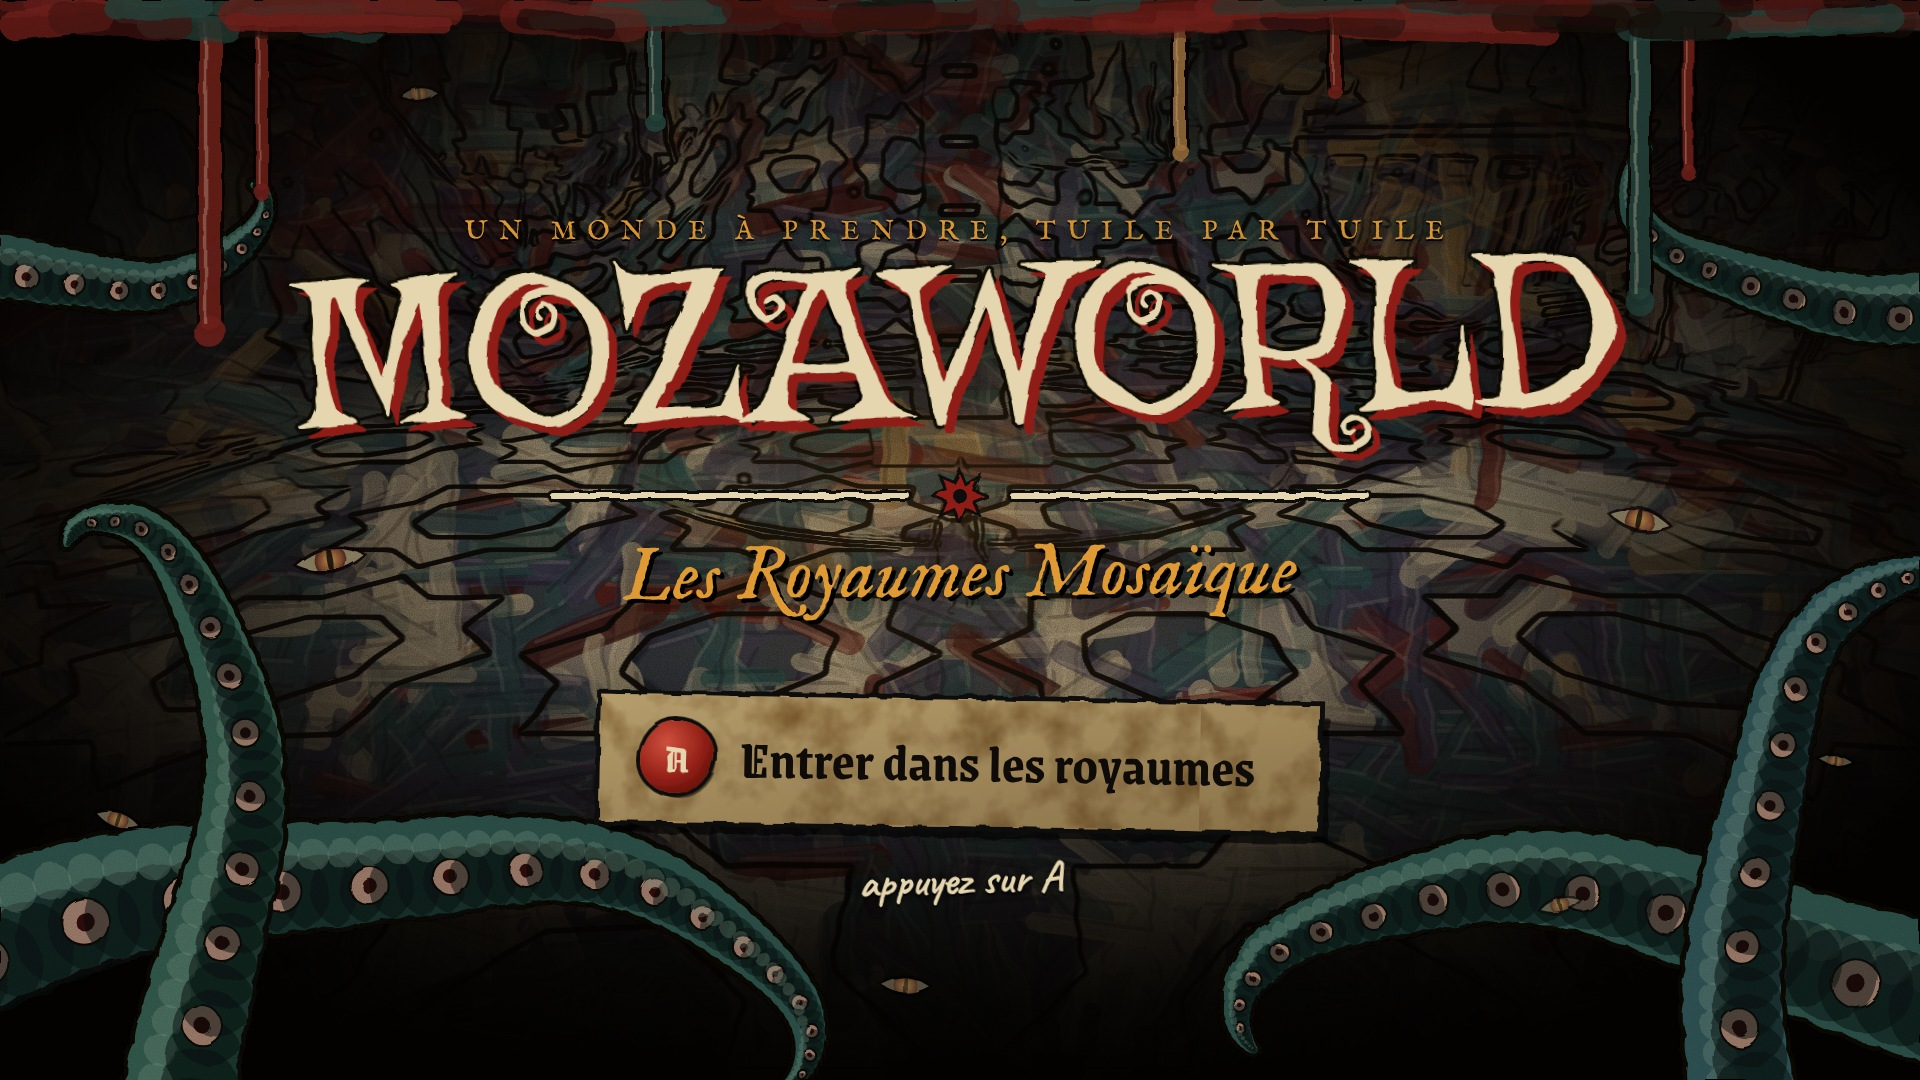
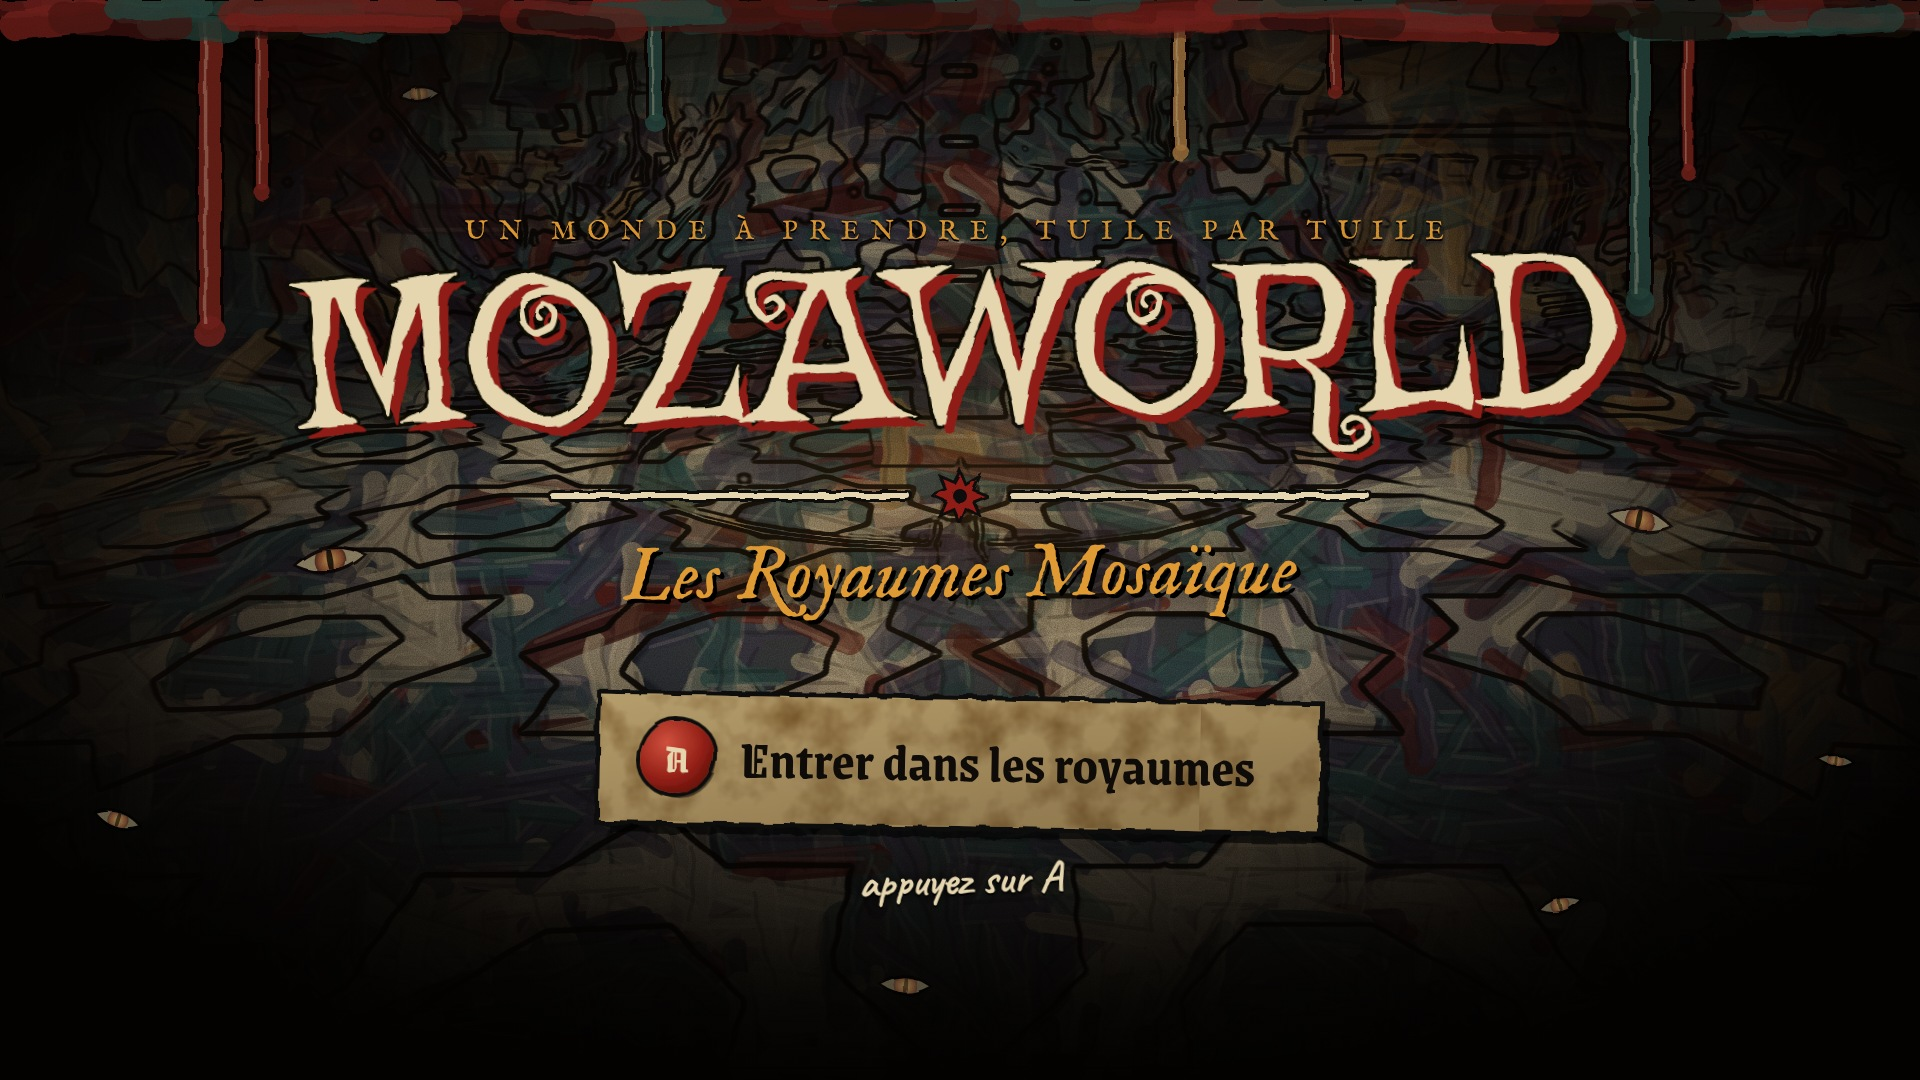
Écran titre : sans tentacules
Claude-Session: https://claude.ai/code/session_01Mt2e3izw3mrnKBCgwSELZB

diff --git a/presentation/ecran-titre/titre.html b/presentation/ecran-titre/titre.html
@@ -85,9 +85,9 @@ g.putImageData(o,0,0);
   for(const[px,py,pr]of pts){g.fillStyle=col;g.beginPath();g.arc(px,py,pr,0,7);g.fill()}
   pts.forEach(([px,py,pr],k)=>{g.globalAlpha=.5;g.fillStyle='#061312';g.beginPath();g.arc(px+pr*.3,py+pr*.3,pr*.72,0,7);g.fill();g.globalAlpha=.3;g.fillStyle='#8fb5a2';g.beginPath();g.arc(px-pr*.38,py-pr*.38,pr*.3,0,7);g.fill();g.globalAlpha=1;
    if(k%3==1&&pr>9){g.fillStyle='#0a0705';g.beginPath();g.arc(px+pr*.15,py+pr*.25,pr*.36+2,0,7);g.fill();g.fillStyle='#b98f7a';g.beginPath();g.arc(px+pr*.15,py+pr*.25,pr*.36,0,7);g.fill();g.fillStyle='#3a0d0a';g.beginPath();g.arc(px+pr*.15,py+pr*.25,pr*.15,0,7);g.fill()}})};
- tent(-60,960,-.45,66,54,.062,'#2a6058');tent(170,1130,-1.35,54,46,-.075,'#316b5c');
- tent(1990,1010,Math.PI+.3,68,44,-.07,'#2a6058');tent(1750,1130,-1.8,52,46,.075,'#2f6268');
- tent(1975,300,Math.PI-.2,36,40,.085,'#2a5a52');tent(-50,260,.15,32,38,-.085,'#2a5a52');
+ 
+ 
+ 
  /* yeux à demi cachés dans le noir */
  const oeil=(x,y,w,rot,al)=>{g.save();g.translate(x,y);g.rotate(rot);g.globalAlpha=al;g.fillStyle='#0a0705';g.beginPath();g.moveTo(-w-4,0);g.quadraticCurveTo(0,-w*.72-4,w+4,0);g.quadraticCurveTo(0,w*.72+4,-w-4,0);g.fill();
   g.beginPath();g.moveTo(-w,0);g.quadraticCurveTo(0,-w*.62,w,0);g.quadraticCurveTo(0,w*.62,-w,0);g.closePath();g.save();g.clip();g.fillStyle='#c9b98a';g.fillRect(-w,-w,2*w,2*w);
